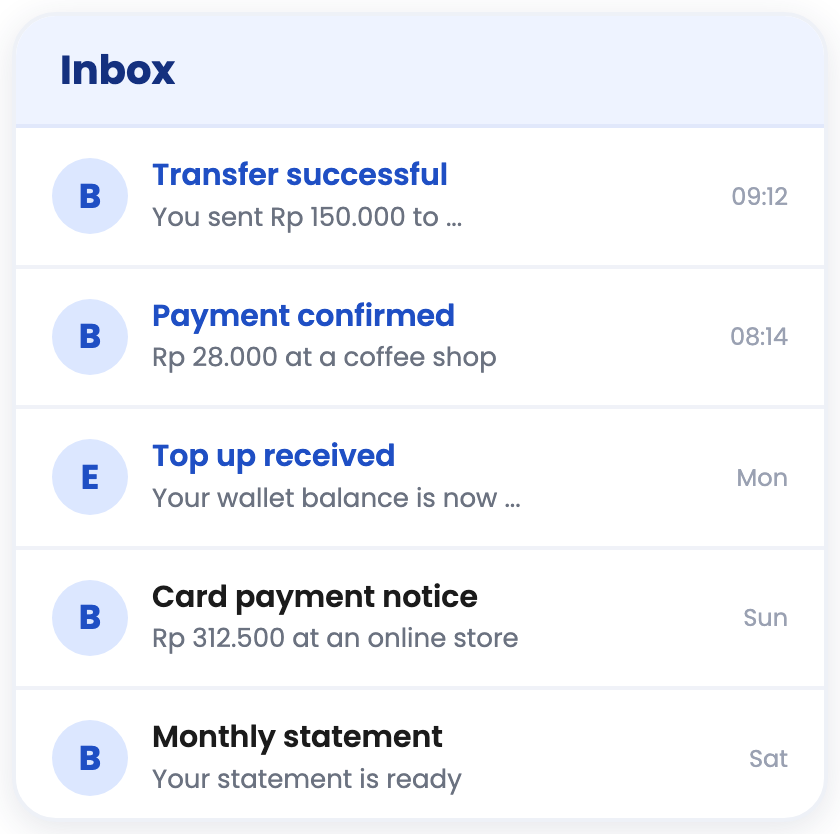
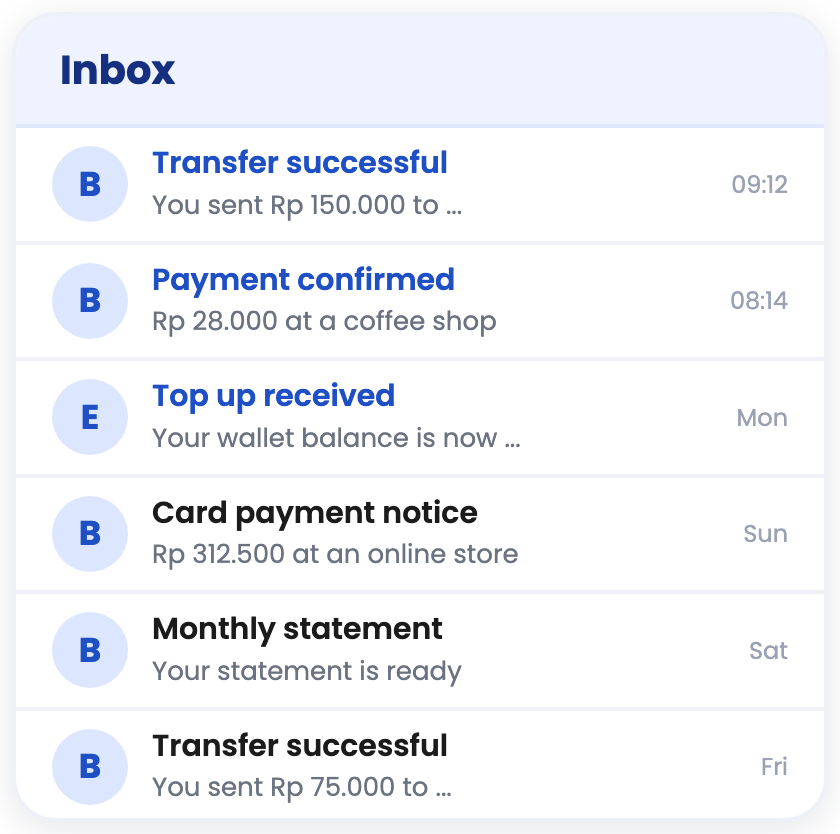
fix(deck): resolve review findings

diff --git a/deck/src/s16-outlook.html b/deck/src/s16-outlook.html
@@ -12,9 +12,9 @@
 <line x1="110" y1="354.8" x2="820" y2="354.8" stroke="#14307f" stroke-width="4" stroke-dasharray="12 9"/>
 <line x1="110" y1="372" x2="820" y2="113.3" stroke="#3171FD" stroke-width="6" stroke-linecap="round"/>
 <circle cx="157.3" cy="354.8" r="11" fill="#fff" stroke="#1f4fc4" stroke-width="5"/>
-<path d="M172 349 L318 334" stroke="#14307f" stroke-width="2" fill="none"/><text x="326" y="338" font-size="18" font-weight="700" fill="#14307f">Break-even: about 27 Premium users</text>
+<path d="M172 349 L318 334" stroke="#14307f" stroke-width="2" fill="none"/><text x="326" y="338" font-size="18" font-weight="700" fill="#14307f">Monthly operating break-even: about 27 Premium users</text>
 <circle cx="552.9" cy="210.3" r="11" fill="#3171FD" stroke="#fff" stroke-width="4"/>
-<text x="534" y="178" font-size="18" font-weight="700" fill="#14307f" text-anchor="end">Pilot: 250 users = US$375 (≈ RMB 2,524) a month</text>
+<text x="570" y="178" font-size="18" font-weight="700" fill="#14307f" text-anchor="end">Pilot: 250 Premium users • US$375/month (≈ RMB 2,524)</text>
 <g font-size="16" fill="#14307f" font-weight="600"><rect x="112" y="24" width="26" height="6" rx="3" fill="#3171FD"/><text x="148" y="32">Monthly revenue at US$1.50 per Premium user</text>
 <line x1="112" y1="52" x2="138" y2="52" stroke="#14307f" stroke-width="4" stroke-dasharray="7 5"/><text x="148" y="58">Assumed operating budget, US$40 a month</text></g>
 </svg></body></html>

diff --git a/deck/src/slide3-preview.html b/deck/src/slide3-preview.html
@@ -20,6 +20,6 @@ iframe{position:absolute;border:0;background:transparent}.abs{position:absolute}
 <iframe src="ability.html" style="left:960px;top:586px;width:928px;height:228px"></iframe>
 <div class="abs tk" style="left:975px;top:822px;width:910px;font-size:20px"><span class="ic" style="font-size:30px">&#9888;</span> <b>Takeaway:</b> they can already pay; the typical app costs over twice Monara's price.</div>
 <div class="abs" style="left:1025px;top:895px;width:154px;height:154px;border-radius:50%;background:#3171fd;border:11px solid #ffd36e"></div>
-<div class="abs" style="left:1261px;top:922px;width:627px;font-size:28px;font-weight:700;color:#1f48ff;line-height:1.2">Monara captures spending for you, lets you confirm it, and keeps every number traceable to its source.</div>
+<div class="abs" style="left:1261px;top:888px;width:627px;font-size:28px;font-weight:700;color:#1f48ff;line-height:1.2">Monara captures spending; you confirm it.<br>Every number stays traceable.</div>
 <div class="abs nav">(footer navigation)</div>
 </body></html>

diff --git a/deck/src/s16-kpis.html b/deck/src/s16-kpis.html
@@ -13,5 +13,5 @@
 <div class="t"><div class="k">Monthly revenue</div><div class="n">US$375</div><div class="r">≈ RMB 2,524</div><div class="s">250 Premium users</div></div>
 <div class="t"><div class="k">Annualized revenue</div><div class="n">US$4,500</div><div class="r">≈ RMB 30,291</div><div class="s">12 x US$375 monthly</div></div>
 <div class="t"><div class="k">Monthly surplus</div><div class="n">US$335</div><div class="r">≈ RMB 2,255</div><div class="s">Revenue minus the US$40 budget</div></div>
-<div class="t hot"><div class="k">Break-even</div><div class="n">27</div><div class="r">Premium users</div><div class="s">US$40 ÷ US$1.50 a month</div></div>
+<div class="t hot"><div class="k">Monthly operating break-even</div><div class="n">27</div><div class="r">Premium users</div><div class="s">US$40 ÷ US$1.50 a month</div></div>
 </div></body></html>

diff --git a/deck/src/card1.html b/deck/src/card1.html
@@ -1,5 +1,5 @@
 <!doctype html><html><head><meta charset="utf-8"><link href="https://fonts.googleapis.com/css2?family=Poppins:wght@400;500;600;700&display=swap" rel="stylesheet"><link rel="stylesheet" href="card_base.css"><style>
-.row{display:flex;gap:12px;padding:14px 18px;border-bottom:2px solid #f0f2f8;align-items:center}
+.row{display:flex;gap:12px;padding:8px 18px;border-bottom:2px solid #f0f2f8;align-items:center}
 .av{width:38px;height:38px;border-radius:50%;background:#dce7ff;color:#1f4fc4;font-weight:700;display:flex;align-items:center;justify-content:center;font-size:17px;flex:none}
 .t{font-size:15px;font-weight:600;line-height:1.25}.s{font-size:13px;color:#6b7280;margin-top:2px}.d{margin-left:auto;font-size:12px;color:#9aa1b2;flex:none}
 .u .t{color:#1f4fc4}

diff --git a/deck/src/slide3.css b/deck/src/slide3.css
@@ -2,5 +2,5 @@
 html,body{background:transparent;font-family:'Poppins',sans-serif;color:#1b1b1b;overflow:hidden}
 .card{position:absolute;inset:3px;background:#fff;border:2px solid #dce7ff;border-radius:24px;box-shadow:0 3px 14px rgba(40,50,80,.1)}
 .fl{font-family:'Apple Color Emoji','Segoe UI Emoji','Noto Color Emoji',sans-serif;font-size:30px;line-height:1}
-.src{font-size:13px;color:#8a90a2;line-height:1.3}
+.src{font-size:13px;color:#4d5160;line-height:1.3}
 .asean{display:inline-block;width:42px;height:28px;vertical-align:middle}
